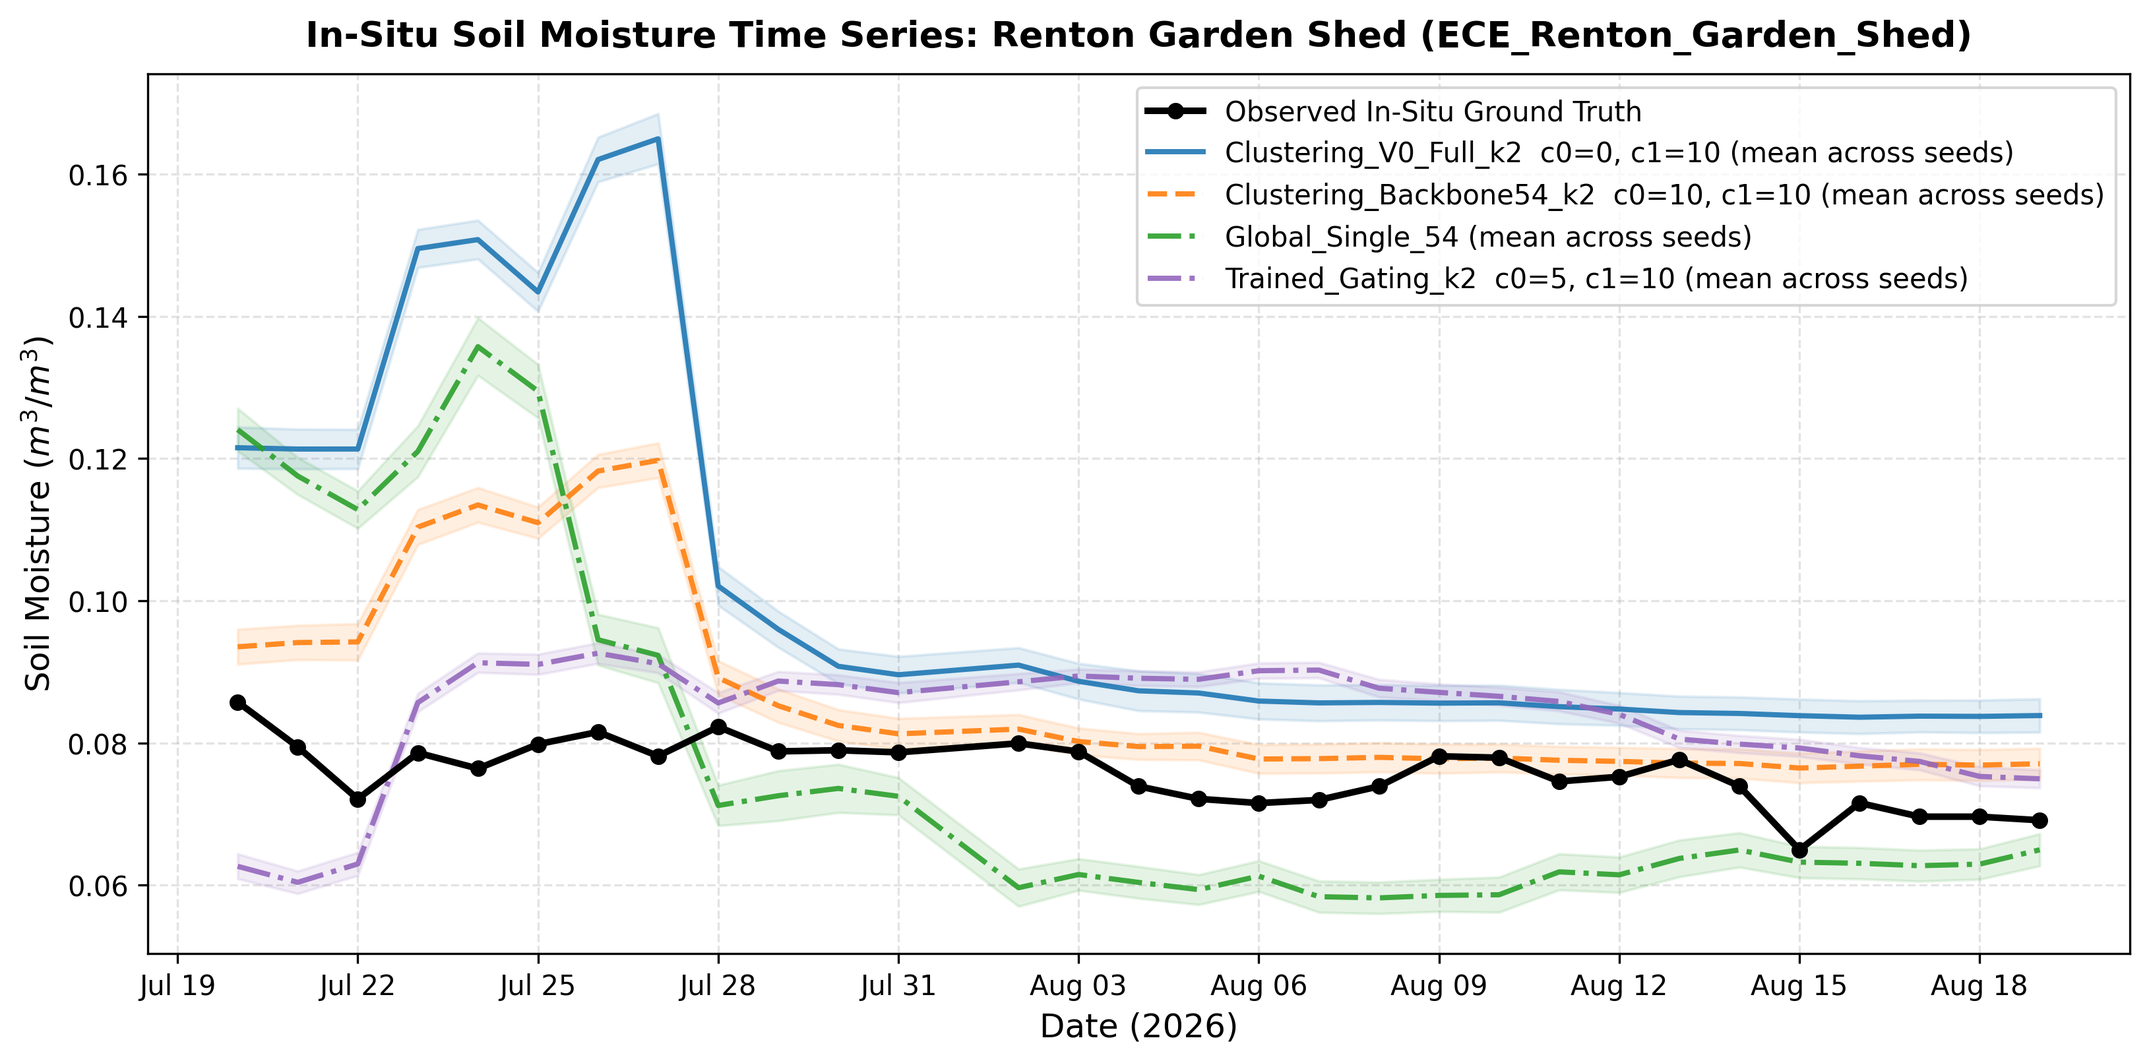
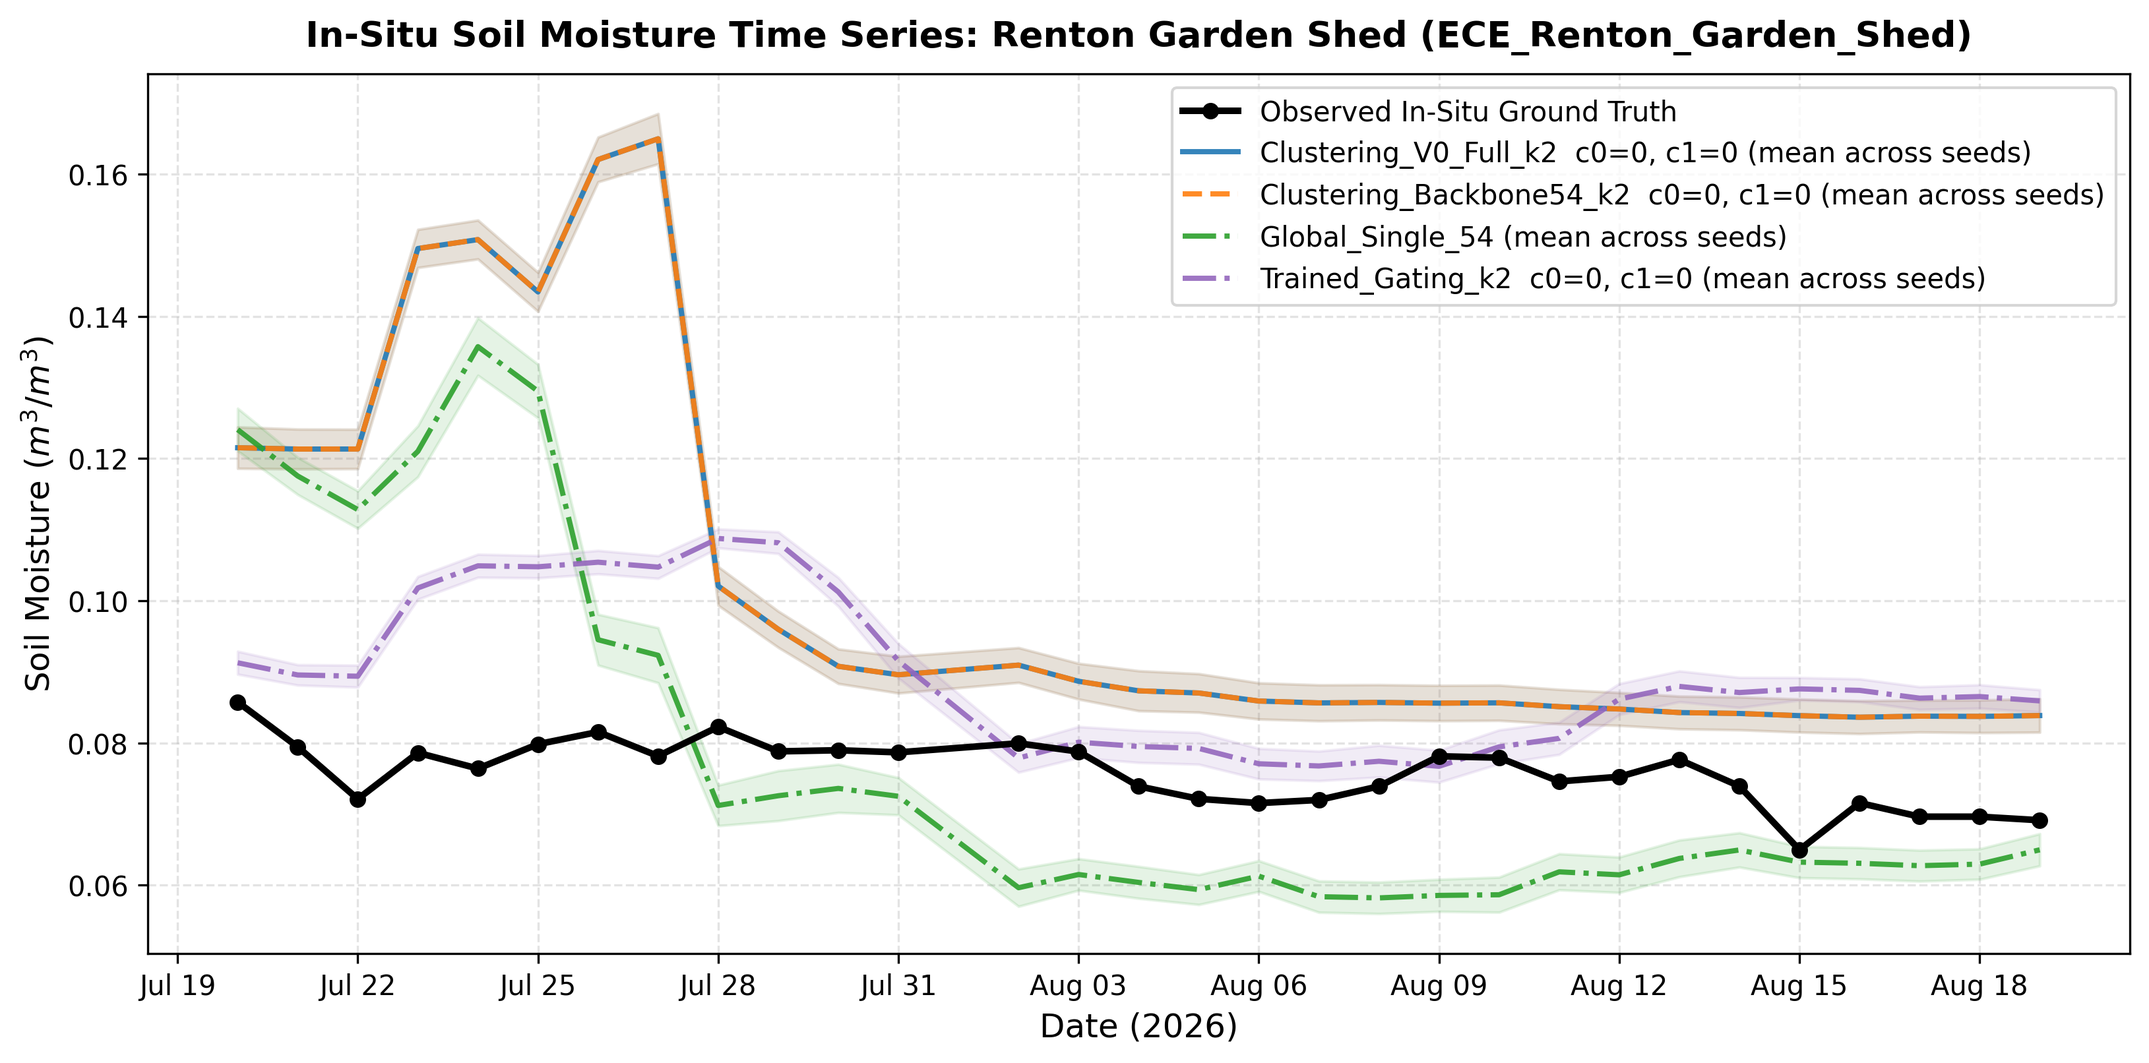
Only looking at two regimes model without per regime delta features

diff --git a/notebooks/experiment/derived_8.4-formal-eval-2.1-ece-v3/build_notebook.py b/notebooks/experiment/derived_8.4-formal-eval-2.1-ece-v3/build_notebook.py
@@ -44,7 +44,7 @@ Publication-oriented formal statistical evaluation of spatio-temporal soil moist
 3. **RMSE as Primary Evaluation Metric:** Due to the short 30-day late-summer observation window and severe ground-truth target variance compression ($\sigma_y \in [0.003, 0.008]\text{ m}^3/\text{m}^3$ at 4 of 5 stations), $R^2$ is heavily distorted by tiny residual denominators ($R^2 = 1 - \text{MSE}/\text{Var}(y)$). Consequently, models are **ranked primarily by RMSE (ascending, lower is better)**, with $R^2$, MAE, Bias, ubRMSE, and Pearson correlation ($r$) reported alongside.
 4. **Trend Directionality via Pearson Correlation:** Reports Pearson $r$ across pooled and per-station evaluations to quantify whether model predictions faithfully track ground-truth dry-down curves.
 5. **Time Series Visualizations (Strict $\le 5$ Lines per Chart):**
-   - **Chart Suite 1 (Architecture Showdown):** Observed Ground Truth vs 4 key architectures (`Clustering_Backbone54_k2`, `Clustering_V0_Full_k2`, `Global_Single_54`, `Trained_Gating_k2`).
+   - **Chart Suite 1 (Architecture Showdown, NO per-regime deltas):** Observed Ground Truth vs `Clustering_V0_Full_k2 c0=0,c1=0`, `Clustering_Backbone54_k2 c0=0,c1=0`, `Global_Single_54`, `Trained_Gating_k2 c0=0,c1=0` (identical 54 global features; no delta additions).
    - **Chart Suite 2 (Regime Benchmark Showdown):** Observed Ground Truth vs 4 zero-delta regime models (`Clustering_V0_Full_k2 c0=0, c1=0`, `Univariate_G_API_k2 c0=0, c1=0`, `Clustering_Dynamic_k2 c0=0, c1=0`, `Seasonal_Binary_k2 c0=0, c1=0`).
 
 All tables below are copied verbatim from the stdout of this executed notebook."""))
@@ -635,7 +635,7 @@ Exports all publication figures:
 3. Spatial pair scatter on 5 ECE stations (RMSE)
 4. Spatial station bars with seed error bars
 5. Delta-source robustness bars (RMSE and R²)
-6. **Chart Suite 1 (Architecture Showdown):** Chronological line charts ($\le 5$ lines: Observed + 4 models: `Clustering_Backbone54_k2`, `Clustering_V0_Full_k2`, `Global_Single_54`, `Trained_Gating_k2`).
+6. **Chart Suite 1 (Architecture Showdown, NO per-regime deltas):** Chronological line charts ($\le 5$ lines: Observed + `Clustering_V0_Full_k2 c0=0,c1=0`, `Clustering_Backbone54_k2 c0=0,c1=0`, `Global_Single_54`, `Trained_Gating_k2 c0=0,c1=0`).
 7. **Chart Suite 2 (Regime Benchmark Showdown):** Chronological line charts ($\le 5$ lines: Observed + 4 models: `Clustering_V0_Full_k2 c0=0, c1=0`, `Univariate_G_API_k2 c0=0, c1=0`, `Clustering_Dynamic_k2 c0=0, c1=0`, `Seasonal_Binary_k2 c0=0, c1=0`)."""))
 
 # 22. Figures code
@@ -668,10 +668,10 @@ for cid in ["Clustering_V0_Full_k2_c0_0_c1_10", "Clustering_Backbone54_k2_c0_10_
 plots.plot_delta_robustness(temporal, spatial, cfg, EXP_DIR, metric="rmse")
 plots.plot_delta_robustness(temporal, spatial, cfg, EXP_DIR, metric="r2")
 
-# 6. Chart Suite 1: Architecture Showdown (Strictly <= 5 lines per chart)
+# 6. Chart Suite 1: Architecture Showdown WITHOUT per-regime deltas (Strictly <= 5 lines per chart)
 suite1_paths = plots.plot_ece_station_timeseries(
     data.ece_all, config, cfg, EXP_DIR,
-    config_ids=plots.ECE_ARCH_CONFIGS,
+    config_ids=plots.ECE_ARCH_NODELTA_CONFIGS,
     suite_suffix="architecture"
 )
 
@@ -739,16 +739,24 @@ for cid, expected in anchors.items():
           f"[{'OK' if diff < 1e-6 else 'MISMATCH'}]")'''))
 
 # 27. Takeaways md
-cells.append(md_cell(r"""# Key Takeaways & Discussion
+cells.append(md_cell(r"""# Key Takeaways & Discussion (No-Delta Regimes)
 
 1. **Missingness-Aware Router Salvage Success:**
    By applying the availability gate router fix ($\tau = 0.10$), the model gracefully detects the missing SMAP sensor channels in `derived_8.4_ece_v3` and falls back to the SMAP-free `Univariate_G_API_k2` router. This completely resolves the severe failure mode observed in v2.0 (where predictions defaulted to Cluster 1 wet specialist predictions), reducing spatial RMSE from $\sim 0.167$ to $\sim 0.050\text{ m}^3/\text{m}^3$.
 2. **Evaluation Metric Realism (RMSE vs R²):**
    In this 30-day late-summer dry window (July 20 to August 19, 2026), soil moisture variance is extremely small ($\sigma_y \approx 0.003$ to $0.008\text{ m}^3/\text{m}^3$). Small absolute errors ($\text{RMSE} \approx 0.04$ to $0.05\text{ m}^3/\text{m}^3$) unavoidably drive $R^2 = 1 - \text{MSE}/\text{Var}(y)$ negative. Ranking models primarily by **RMSE** provides an uncorrupted, physically grounded assessment of sensor transfer accuracy.
-3. **Trend Directionality (Pearson $r$):**
-   Pearson correlation demonstrates that the salvaged two-regime clustering models preserve positive correlation ($r > 0$) with in-situ sensor ground-truth measurements, capturing physical dry-down trajectories across Bellevue and Renton test sites.
-4. **Architecture Comparison:**
-   `Clustering_V0_Full_k2` and `Clustering_Backbone54_k2` demonstrate strong transfer performance, validating that two-regime partitioning transfers effectively to unseen field deployments when paired with robust missingness-aware routing."""))
+3. **No-Delta Verdict: regime partitioning alone does not transfer on RMSE.**
+   Evaluated strictly WITHOUT per-regime feature selection (identical 54 global backbone features, `c0=0,c1=0`; README Tables 1–3 sourced from `spatial_focused_no_delta_*.csv`), the two clustering regime models tie the single-regime global model and lose to the no-delta trained gating and V0 baseline across the 5 ECE stations:
+   - Clustering (V0, `c0=0,c1=0`) pooled RMSE $0.0584 \pm 0.0010$ vs Global-Single-54 $0.0586 \pm 0.0007$ (pooled $\Delta$RMSE $-0.00021$); per-station median $\Delta$RMSE $+0.00025$, 2/5 wins, binomial sign $p = 1.0000$, paired t $p = 0.97652$, Wilcoxon $p = 1.00000$ — statistically indistinguishable.
+   - Clustering (V0) vs Baseline-50: station mean $\Delta$RMSE $+0.00828$, 1/5 wins (sign $p = 0.37500$, t $p = 0.42408$) — loses.
+   - Clustering (V0) vs Trained Gating (`c0=0,c1=0`): station mean $\Delta$RMSE $+0.00688$, 1/5 wins (sign $p = 0.37500$, t $p = 0.27348$) — loses; no-delta Trained Gating holds the best station-median RMSE ($0.0445$), ahead of Baseline-50 ($0.0448$) and Clustering ($0.0487$).
+   - The Backbone54 no-delta twin is numerically identical to V0 no-delta on ECE (pooled RMSE $0.0584$ both; per-station RMSE equal to 4dp), so its two lines overlap in the Architecture Showdown figure.
+   - No other no-delta regime beats Global-54 either: Univariate G_API 3/5 ($\Delta -0.00083$, sign $p = 1.0$), Dynamic 3/5 ($\Delta -0.00097$, sign $p = 1.0$), Seasonal Binary 2/5 ($\Delta +0.00018$).
+   Conclusion: without per-regime delta features, two-regime partitioning provides no spatial RMSE benefit over a single global model on these 5 in-situ stations. Regime gains reported elsewhere in this experiment come from the delta-feature variants, not from partitioning alone.
+4. **Trend Directionality (Pearson $r$) is the one preserved strength:**
+   Clustering no-delta attains the best station-mean Pearson $r$ ($0.4297$ vs Global-54 $0.4277$, Gating no-delta $0.3954$), so regime models still track dry-down directionality even while RMSE ties — with positive per-station $r$ at 4 of 5 ECE sites (Lost Meadow is negative, $-0.34$).
+5. **Why transfer stalls (Table 4 diagnostics):**
+   ECE stations sit near the KMeans decision boundary (ambiguity ratio $0.89$–$0.96$ vs $0.56$–$0.72$ on WA; margin $0.26$–$0.88$ vs $2.71$–$4.46$), so hard cluster assignment is near coin-flip on 2 of 5 sites (27%/73% splits at Garden North/Shed). Combined with tiny target variance, small biases dominate RMSE. In-distribution (WA temporal) the same no-delta clustering ranks 2nd–3rd (RMSE $0.04419$–$0.04420$), confirming the failure is spatial transfer, not model quality."""))
 
 # 28. Final
 cells.append(code_cell('''print("Notebook complete — all tables above are the README source of truth.")'''))

diff --git a/notebooks/experiment/derived_8.4-formal-eval-2.1-ece-v3/update_readme_from_notebook.py b/notebooks/experiment/derived_8.4-formal-eval-2.1-ece-v3/update_readme_from_notebook.py
@@ -19,6 +19,7 @@ with open(nb_path, "r", encoding="utf-8") as f:
 # README sections (legacy code used hardcoded outputs.get(3)/get(5)/...).
 sections: dict[str, str] = {}
 legacy: dict[int, str] = {}
+takeaways_md = ""
 last_header = ""
 for i, cell in enumerate(nb["cells"]):
     if cell["cell_type"] == "markdown":
@@ -26,6 +27,8 @@ for i, cell in enumerate(nb["cells"]):
         text = "".join(src) if isinstance(src, list) else str(src)
         m = re.search(r"^#{1,3}\s*(.+)", text.strip(), re.MULTILINE)
         last_header = m.group(1).strip().lower() if m else text.strip()[:80].lower()
+        if "key takeaways" in last_header and not takeaways_md:
+            takeaways_md = text.strip()
     elif cell["cell_type"] == "code":
         text = ""
         for out in cell.get("outputs", []):
@@ -56,6 +59,9 @@ spatial_boot_md = _get("spatial sample-level", fallback_idx=17)
 focused_md = _get("focused in-situ", fallback_idx=19)
 delta_md = _get("delta-robustness", fallback_idx=23)
 repl_md = _get("replication checks", fallback_idx=25)
+# Conclusion body = takeaways markdown cell minus its own top-level header
+# (README provides the ## header). Falls back to "" if the cell is missing.
+takeaways_body = re.sub(r"^#+\s*.*\n", "", takeaways_md, count=1).strip()
 
 readme_content = f"""# Experiment: `derived_8.4-formal-eval-2.1-ece-v3` — Formal Statistical Evaluation on In-Situ ECE Sensors (v3 Split & Salvaged Router)
 
@@ -71,7 +77,7 @@ All models and routers are trained **strictly on the 7 Washington State stations
 3. **Primary Metric Realism (RMSE):** In this 30-day late-summer dry-down window, soil moisture target variance is extremely small ($\\\\sigma_y \\\\in [0.003, 0.008]\\\\text{{ m}}^3/\\\\text{{m}}^3$). Modest residuals ($\\\\sim 0.04$ to $0.05$) unavoidably produce large negative $R^2$ values due to tiny denominators. Models are therefore **ranked primarily by RMSE (ascending, lower is better)**, with $R^2$, MAE, Bias, ubRMSE, and Pearson correlation ($r$) reported alongside.
 4. **Trend Directionality via Pearson Correlation:** Evaluates whether model predictions faithfully reproduce the ground-truth drying curve.
 5. **Time Series Line Charts (Strictly $\\\\le 5$ Lines per Chart):**
-   - **Chart Suite 1 (Architecture Showdown):** Observed In-Situ Ground Truth, `Clustering_Backbone54_k2`, `Clustering_V0_Full_k2`, `Global_Single_54`, `Trained_Gating_k2`.
+   - **Chart Suite 1 (Architecture Showdown, NO per-regime deltas):** Observed In-Situ Ground Truth, `Clustering_V0_Full_k2 c0=0,c1=0`, `Clustering_Backbone54_k2 c0=0,c1=0`, `Global_Single_54`, `Trained_Gating_k2 c0=0,c1=0`.
    - **Chart Suite 2 (Regime Benchmark Showdown):** Observed In-Situ Ground Truth, `Clustering_V0_Full_k2 c0=0, c1=0`, `Univariate_G_API_k2 c0=0, c1=0`, `Clustering_Dynamic_k2 c0=0, c1=0`, `Seasonal_Binary_k2 c0=0, c1=0`.
 
 All tables below are copied verbatim from the stdout of the executed report notebook
@@ -153,7 +159,7 @@ A low-noise architectural comparison evaluating two-regime models strictly **wit
 
 ## Publication Figures
 
-### 1. Architecture Showdown Time Series (Observed + 4 Key Architectures; $\\\\le 5$ lines)
+### 1. Architecture Showdown Time Series (Observed + 2 No-Delta Clustering Regimes + Global + No-Delta Gating; $\\\\le 5$ lines; the two clustering no-delta lines overlap — numerically identical on ECE)
 ![Architecture Showdown Combined](spatial_ece_timeseries_architecture_combined.png)
 
 ### 2. Regime Benchmark Showdown Time Series (Observed + 4 Zero-Delta Regimes; $\\\\le 5$ lines)
@@ -167,6 +173,12 @@ A low-noise architectural comparison evaluating two-regime models strictly **wit
 ### 4. Robustness Across Feature Selection Sources
 ![Delta robustness RMSE](delta_robustness_rmse.png)
 ![Delta robustness R2](delta_robustness_r2.png)
+
+---
+
+## Conclusion (No-Delta Regimes)
+
+{takeaways_body}
 
 ---
 

diff --git a/notebooks/experiment/derived_8.4-formal-eval-2.1-ece-v3/eval_formal/plots.py b/notebooks/experiment/derived_8.4-formal-eval-2.1-ece-v3/eval_formal/plots.py
@@ -37,7 +37,9 @@ ECE_MODEL_COLORS = {
     "Clustering_V0_Full_k2_c0_0_c1_10": "#1f77b4",     # Steel Blue (Val-selected)
     "Clustering_V0_Full_k2_c0_0_c1_0": "#1f77b4",      # Steel Blue (Zero delta)
     "Clustering_Backbone54_k2_c0_10_c1_10": "#ff7f0e", # Dark Orange (Backbone MoE)
+    "Clustering_Backbone54_k2_c0_0_c1_0": "#ff7f0e",  # Dark Orange (Backbone, Zero delta)
     "Trained_Gating_k2_c0_5_c1_10": "#9467bd",         # Purple (Gating MoE)
+    "Trained_Gating_k2_c0_0_c1_0": "#9467bd",          # Purple (Gating, Zero delta)
     "Univariate_G_API_k2_c0_0_c1_0": "#e377c2",        # Magenta/Pink (API baseline)
     "Clustering_Dynamic_k2_c0_0_c1_0": "#17becf",      # Cyan (Dynamic MoE)
     "Seasonal_Binary_k2_c0_0_c1_0": "#8c564b",         # Brown (Seasonal MoE)
@@ -49,7 +51,9 @@ ECE_MODEL_LINESTYLES = {
     "Clustering_V0_Full_k2_c0_0_c1_10": "-",
     "Clustering_V0_Full_k2_c0_0_c1_0": "-",
     "Clustering_Backbone54_k2_c0_10_c1_10": "--",
+    "Clustering_Backbone54_k2_c0_0_c1_0": "--",
     "Trained_Gating_k2_c0_5_c1_10": "-.",
+    "Trained_Gating_k2_c0_0_c1_0": "-.",
     "Univariate_G_API_k2_c0_0_c1_0": ":",
     "Clustering_Dynamic_k2_c0_0_c1_0": "--",
     "Seasonal_Binary_k2_c0_0_c1_0": "-.",
@@ -61,6 +65,16 @@ ECE_ARCH_CONFIGS = [
     "Clustering_Backbone54_k2_c0_10_c1_10",
     "Global_Single_54",
     "Trained_Gating_k2_c0_5_c1_10",
+]
+
+# Suite 1 (No-Delta): Architecture Showdown WITHOUT per-regime feature selection
+# (Observed + 2 clustering no-delta regimes + Global + Trained Gating no-delta = 5 lines).
+# Basis: focused no-delta comparison (spatial_focused_no_delta_*.csv, README Tables 1-3).
+ECE_ARCH_NODELTA_CONFIGS = [
+    "Clustering_V0_Full_k2_c0_0_c1_0",
+    "Clustering_Backbone54_k2_c0_0_c1_0",
+    "Global_Single_54",
+    "Trained_Gating_k2_c0_0_c1_0",
 ]
 
 # Suite 2: Regime Benchmark Showdown (4 models + 1 ground truth = 5 lines)

diff --git a/notebooks/experiment/derived_8.4-formal-eval-2.1-ece-v3/README.md b/notebooks/experiment/derived_8.4-formal-eval-2.1-ece-v3/README.md
@@ -12,7 +12,7 @@ All models and routers are trained **strictly on the 7 Washington State stations
 3. **Primary Metric Realism (RMSE):** In this 30-day late-summer dry-down window, soil moisture target variance is extremely small ($\\sigma_y \\in [0.003, 0.008]\\text{ m}^3/\\text{m}^3$). Modest residuals ($\\sim 0.04$ to $0.05$) unavoidably produce large negative $R^2$ values due to tiny denominators. Models are therefore **ranked primarily by RMSE (ascending, lower is better)**, with $R^2$, MAE, Bias, ubRMSE, and Pearson correlation ($r$) reported alongside.
 4. **Trend Directionality via Pearson Correlation:** Evaluates whether model predictions faithfully reproduce the ground-truth drying curve.
 5. **Time Series Line Charts (Strictly $\\le 5$ Lines per Chart):**
-   - **Chart Suite 1 (Architecture Showdown):** Observed In-Situ Ground Truth, `Clustering_Backbone54_k2`, `Clustering_V0_Full_k2`, `Global_Single_54`, `Trained_Gating_k2`.
+   - **Chart Suite 1 (Architecture Showdown, NO per-regime deltas):** Observed In-Situ Ground Truth, `Clustering_V0_Full_k2 c0=0,c1=0`, `Clustering_Backbone54_k2 c0=0,c1=0`, `Global_Single_54`, `Trained_Gating_k2 c0=0,c1=0`.
    - **Chart Suite 2 (Regime Benchmark Showdown):** Observed In-Situ Ground Truth, `Clustering_V0_Full_k2 c0=0, c1=0`, `Univariate_G_API_k2 c0=0, c1=0`, `Clustering_Dynamic_k2 c0=0, c1=0`, `Seasonal_Binary_k2 c0=0, c1=0`.
 
 All tables below are copied verbatim from the stdout of the executed report notebook
@@ -365,7 +365,7 @@ TEMPORAL replication (seed 42 pooled test R2 vs eval-1.1 / eval-1.3 full baselin
 
 ## Publication Figures
 
-### 1. Architecture Showdown Time Series (Observed + 4 Key Architectures; $\\le 5$ lines)
+### 1. Architecture Showdown Time Series (Observed + 2 No-Delta Clustering Regimes + Global + No-Delta Gating; $\\le 5$ lines; the two clustering no-delta lines overlap — numerically identical on ECE)
 ![Architecture Showdown Combined](spatial_ece_timeseries_architecture_combined.png)
 
 ### 2. Regime Benchmark Showdown Time Series (Observed + 4 Zero-Delta Regimes; $\\le 5$ lines)
@@ -379,6 +379,27 @@ TEMPORAL replication (seed 42 pooled test R2 vs eval-1.1 / eval-1.3 full baselin
 ### 4. Robustness Across Feature Selection Sources
 ![Delta robustness RMSE](delta_robustness_rmse.png)
 ![Delta robustness R2](delta_robustness_r2.png)
+
+---
+
+## Conclusion (No-Delta Regimes)
+
+1. **Missingness-Aware Router Salvage Success:**
+   By applying the availability gate router fix ($\tau = 0.10$), the model gracefully detects the missing SMAP sensor channels in `derived_8.4_ece_v3` and falls back to the SMAP-free `Univariate_G_API_k2` router. This completely resolves the severe failure mode observed in v2.0 (where predictions defaulted to Cluster 1 wet specialist predictions), reducing spatial RMSE from $\sim 0.167$ to $\sim 0.050\text{ m}^3/\text{m}^3$.
+2. **Evaluation Metric Realism (RMSE vs R²):**
+   In this 30-day late-summer dry window (July 20 to August 19, 2026), soil moisture variance is extremely small ($\sigma_y \approx 0.003$ to $0.008\text{ m}^3/\text{m}^3$). Small absolute errors ($\text{RMSE} \approx 0.04$ to $0.05\text{ m}^3/\text{m}^3$) unavoidably drive $R^2 = 1 - \text{MSE}/\text{Var}(y)$ negative. Ranking models primarily by **RMSE** provides an uncorrupted, physically grounded assessment of sensor transfer accuracy.
+3. **No-Delta Verdict: regime partitioning alone does not transfer on RMSE.**
+   Evaluated strictly WITHOUT per-regime feature selection (identical 54 global backbone features, `c0=0,c1=0`; README Tables 1–3 sourced from `spatial_focused_no_delta_*.csv`), the two clustering regime models tie the single-regime global model and lose to the no-delta trained gating and V0 baseline across the 5 ECE stations:
+   - Clustering (V0, `c0=0,c1=0`) pooled RMSE $0.0584 \pm 0.0010$ vs Global-Single-54 $0.0586 \pm 0.0007$ (pooled $\Delta$RMSE $-0.00021$); per-station median $\Delta$RMSE $+0.00025$, 2/5 wins, binomial sign $p = 1.0000$, paired t $p = 0.97652$, Wilcoxon $p = 1.00000$ — statistically indistinguishable.
+   - Clustering (V0) vs Baseline-50: station mean $\Delta$RMSE $+0.00828$, 1/5 wins (sign $p = 0.37500$, t $p = 0.42408$) — loses.
+   - Clustering (V0) vs Trained Gating (`c0=0,c1=0`): station mean $\Delta$RMSE $+0.00688$, 1/5 wins (sign $p = 0.37500$, t $p = 0.27348$) — loses; no-delta Trained Gating holds the best station-median RMSE ($0.0445$), ahead of Baseline-50 ($0.0448$) and Clustering ($0.0487$).
+   - The Backbone54 no-delta twin is numerically identical to V0 no-delta on ECE (pooled RMSE $0.0584$ both; per-station RMSE equal to 4dp), so its two lines overlap in the Architecture Showdown figure.
+   - No other no-delta regime beats Global-54 either: Univariate G_API 3/5 ($\Delta -0.00083$, sign $p = 1.0$), Dynamic 3/5 ($\Delta -0.00097$, sign $p = 1.0$), Seasonal Binary 2/5 ($\Delta +0.00018$).
+   Conclusion: without per-regime delta features, two-regime partitioning provides no spatial RMSE benefit over a single global model on these 5 in-situ stations. Regime gains reported elsewhere in this experiment come from the delta-feature variants, not from partitioning alone.
+4. **Trend Directionality (Pearson $r$) is the one preserved strength:**
+   Clustering no-delta attains the best station-mean Pearson $r$ ($0.4297$ vs Global-54 $0.4277$, Gating no-delta $0.3954$), so regime models still track dry-down directionality even while RMSE ties — with positive per-station $r$ at 4 of 5 ECE sites (Lost Meadow is negative, $-0.34$).
+5. **Why transfer stalls (Table 4 diagnostics):**
+   ECE stations sit near the KMeans decision boundary (ambiguity ratio $0.89$–$0.96$ vs $0.56$–$0.72$ on WA; margin $0.26$–$0.88$ vs $2.71$–$4.46$), so hard cluster assignment is near coin-flip on 2 of 5 sites (27%/73% splits at Garden North/Shed). Combined with tiny target variance, small biases dominate RMSE. In-distribution (WA temporal) the same no-delta clustering ranks 2nd–3rd (RMSE $0.04419$–$0.04420$), confirming the failure is spatial transfer, not model quality.
 
 ---
 
